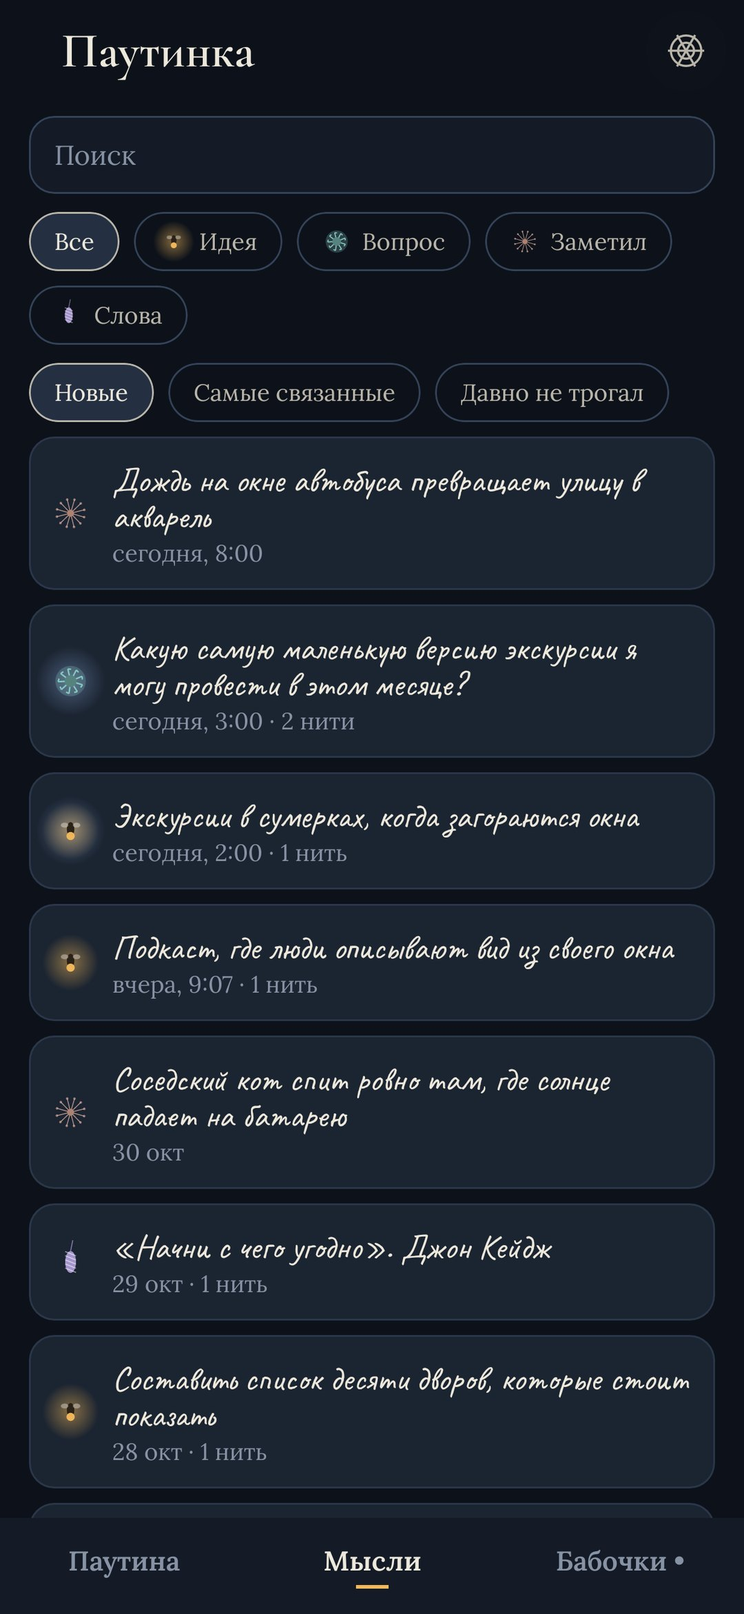
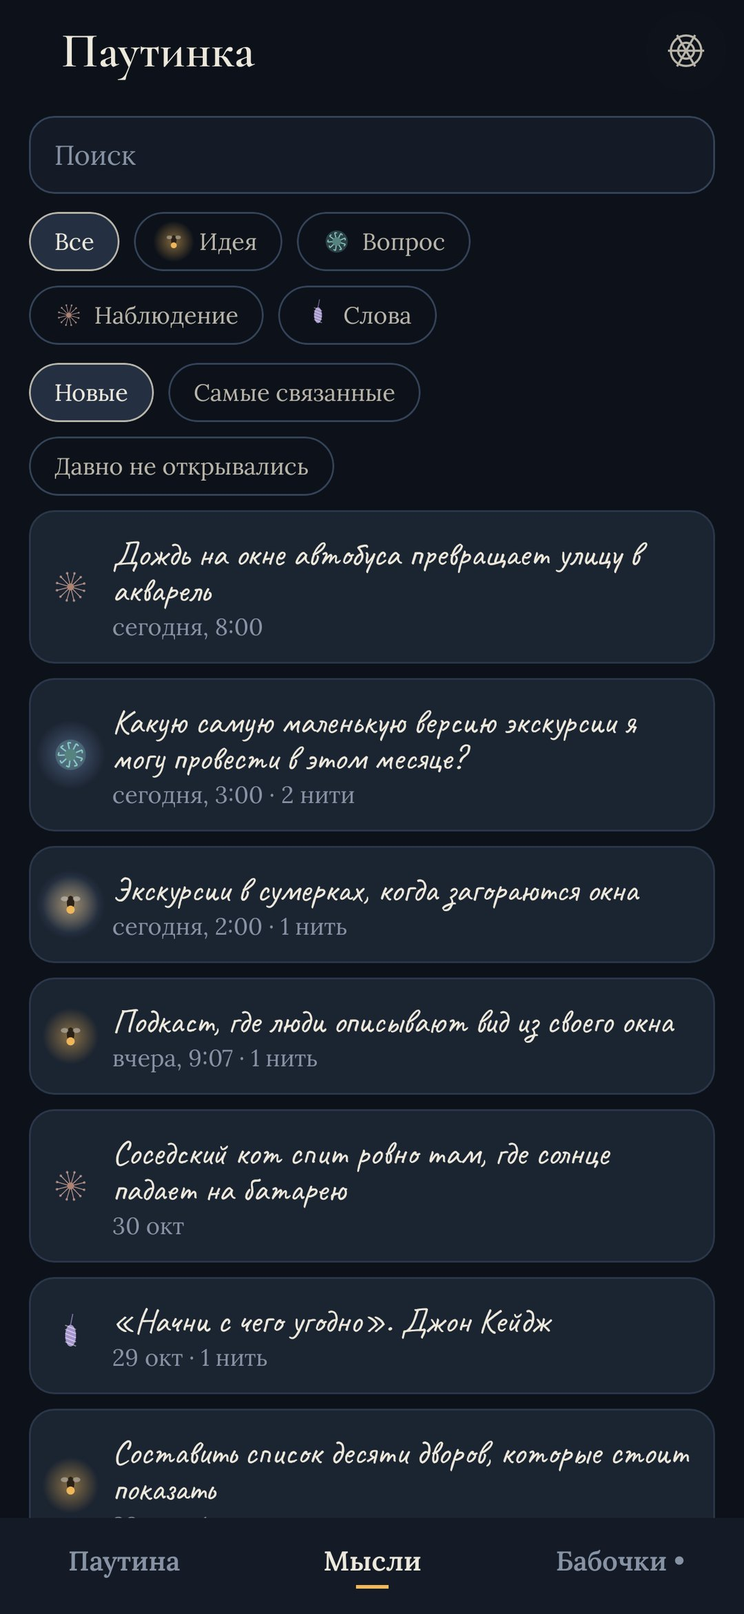
Release 1.0.0: voice in the sheet, plainer Russian, widget hint
Speech goes through SpeechRecognizer right in the catch sheet, so it works
on phones whose «speak now» intent is taken by an app that just closes.
Gender-neutral, natural Russian strings; a hint where the widget lands.

diff --git a/app/src/main/java/app/gossamer/ui/catching/CatchForm.kt b/app/src/main/java/app/gossamer/ui/catching/CatchForm.kt
@@ -1,9 +1,8 @@
 package app.gossamer.ui.catching
 
-import android.app.Activity
-import android.content.Context
-import android.content.Intent
-import android.speech.RecognizerIntent
+import android.Manifest
+import android.content.pm.PackageManager
+import androidx.core.content.ContextCompat
 import androidx.activity.compose.rememberLauncherForActivityResult
 import androidx.activity.result.contract.ActivityResultContracts
 import androidx.compose.foundation.Canvas
@@ -52,15 +51,6 @@ import app.gossamer.ui.theme.C
 import app.gossamer.ui.theme.T
 import app.gossamer.ui.web.Mic
 
-object Speech {
-    fun available(ctx: Context) = Intent(RecognizerIntent.ACTION_RECOGNIZE_SPEECH).resolveActivity(ctx.packageManager) != null
-
-    fun intent(ctx: Context) = Intent(RecognizerIntent.ACTION_RECOGNIZE_SPEECH)
-        .putExtra(RecognizerIntent.EXTRA_LANGUAGE_MODEL, RecognizerIntent.LANGUAGE_MODEL_FREE_FORM)
-        .putExtra(RecognizerIntent.EXTRA_LANGUAGE, if (ctx.ru) "ru-RU" else ctx.resources.configuration.locales[0].toLanguageTag())
-        .putExtra(RecognizerIntent.EXTRA_PROMPT, ctx.getString(R.string.c_say_prompt))
-}
-
 fun kindName(k: Kind) = when (k) {
     Kind.IDEA -> R.string.k_idea
     Kind.QUESTION -> R.string.k_question
@@ -94,28 +84,34 @@ fun CatchForm(initial: String = "", initialKind: Kind = Kind.IDEA, voice: Boolea
     var kind by rememberSaveable { mutableStateOf(initialKind) }
     var busy by remember { mutableStateOf(false) }
     val focus = remember { FocusRequester() }
-    val canSpeak = remember { Speech.available(ctx) }
-    val speech = rememberLauncherForActivityResult(ActivityResultContracts.StartActivityForResult()) { r ->
-        val said = r.data?.getStringArrayListExtra(RecognizerIntent.EXTRA_RESULTS)?.firstOrNull()
-        if (r.resultCode == Activity.RESULT_OK && !said.isNullOrBlank()) {
-            text = if (text.isBlank()) said.replaceFirstChar { it.uppercase() } else text.trimEnd() + " " + said
-        }
-        runCatching { focus.requestFocus() }
+    var voiceNote by remember { mutableStateOf<Int?>(null) }
+    val speech = rememberVoice(
+        onText = { said -> text = if (text.isBlank()) said.replaceFirstChar { it.uppercase() } else text.trimEnd() + " " + said; voiceNote = null },
+        onFail = { voiceNote = it },
+    )
+    val mic = rememberLauncherForActivityResult(ActivityResultContracts.RequestPermission()) { ok -> if (ok) speech.start() else voiceNote = R.string.v_perm }
+    fun listen() {
+        voiceNote = null
+        if (ContextCompat.checkSelfPermission(ctx, Manifest.permission.RECORD_AUDIO) == PackageManager.PERMISSION_GRANTED) speech.start()
+        else mic.launch(Manifest.permission.RECORD_AUDIO)
     }
     LaunchedEffect(Unit) {
-        if (voice && canSpeak) speech.launch(Speech.intent(ctx)) else runCatching { focus.requestFocus() }
+        if (voice && speech.available) listen() else runCatching { focus.requestFocus() }
     }
 
     Column(verticalArrangement = Arrangement.spacedBy(12.dp)) {
         Text(stringResource(R.string.c_title), style = T.Title)
         Row(verticalAlignment = Alignment.Top, horizontalArrangement = Arrangement.spacedBy(10.dp)) {
-            Field(text, { text = it }, stringResource(R.string.c_hint), Modifier.weight(1f).heightIn(min = 110.dp), style = T.Thought, single = false, focus = focus, minLines = 3)
-            if (canSpeak) {
+            val shown = if (speech.listening && speech.partial.isNotBlank()) (if (text.isBlank()) speech.partial else text.trimEnd() + " " + speech.partial) else text
+            Field(shown, { text = it }, stringResource(if (speech.listening) R.string.v_listening else R.string.c_hint), Modifier.weight(1f).heightIn(min = 110.dp), style = T.Thought, single = false, focus = focus, minLines = 3)
+            if (speech.available) {
                 val label = stringResource(R.string.sc_say)
-                Box(Modifier.size(48.dp).clip(CircleShape).background(C.deep).border(1.dp, C.line, CircleShape).clickable { speech.launch(Speech.intent(ctx)) }
-                    .semantics { contentDescription = label }, contentAlignment = Alignment.Center) { Mic(Modifier.size(20.dp), C.silk) }
+                Box(Modifier.size(48.dp).clip(CircleShape).background(if (speech.listening) C.amber else C.deep).border(1.dp, if (speech.listening) C.amber else C.line, CircleShape).clickable { listen() }
+                    .semantics { contentDescription = label }, contentAlignment = Alignment.Center) { Mic(Modifier.size(20.dp), if (speech.listening) C.ink else C.silk) }
             }
         }
+        voiceNote?.let { Text(stringResource(it), style = T.Small.copy(color = C.warn)) }
+        if (speech.listening) Text(stringResource(R.string.v_listening_b), style = T.Small.copy(color = C.amber))
         Flow {
             for (k in Kind.entries) Chip(stringResource(kindName(k)), kind == k, { kind = k }, lead = { KindGlyph(k, 18.dp) })
         }

diff --git a/app/src/main/java/app/gossamer/ui/catching/Voice.kt b/app/src/main/java/app/gossamer/ui/catching/Voice.kt
@@ -1,0 +1,94 @@
+package app.gossamer.ui.catching
+
+import android.content.Context
+import android.content.Intent
+import android.os.Bundle
+import android.speech.RecognitionListener
+import android.speech.RecognizerIntent
+import android.speech.SpeechRecognizer
+import androidx.compose.runtime.Composable
+import androidx.compose.runtime.DisposableEffect
+import androidx.compose.runtime.Stable
+import androidx.compose.runtime.getValue
+import androidx.compose.runtime.mutableStateOf
+import androidx.compose.runtime.remember
+import androidx.compose.runtime.setValue
+import androidx.compose.ui.platform.LocalContext
+import app.gossamer.R
+import app.gossamer.ru
+
+/**
+ * Speech to text inside the sheet, through whatever recognition service the phone has
+ * (Google's, or the one on a phone without Google apps). Words appear in the field as you speak.
+ * The system «speak now» window isn't used: on some phones it's registered by an app that just closes.
+ */
+@Stable
+class Voice(private val ctx: Context, private val onText: (String) -> Unit, private val onFail: (Int) -> Unit) {
+    var listening by mutableStateOf(false)
+        private set
+    var partial by mutableStateOf("")
+        private set
+    private var rec: SpeechRecognizer? = null
+
+    val available: Boolean = runCatching { SpeechRecognizer.isRecognitionAvailable(ctx) }.getOrDefault(false)
+
+    fun start() {
+        if (listening) { stop(); return }
+        val r = rec ?: runCatching { SpeechRecognizer.createSpeechRecognizer(ctx) }.getOrNull()?.also { rec = it } ?: return onFail(R.string.v_none)
+        r.setRecognitionListener(object : RecognitionListener {
+            override fun onReadyForSpeech(params: Bundle?) { listening = true }
+            override fun onBeginningOfSpeech() = Unit
+            override fun onRmsChanged(rmsdB: Float) = Unit
+            override fun onBufferReceived(buffer: ByteArray?) = Unit
+            override fun onEndOfSpeech() = Unit
+            override fun onEvent(eventType: Int, params: Bundle?) = Unit
+            override fun onPartialResults(b: Bundle?) {
+                partial = b?.getStringArrayList(SpeechRecognizer.RESULTS_RECOGNITION)?.firstOrNull().orEmpty()
+            }
+            override fun onResults(b: Bundle?) {
+                listening = false
+                val said = b?.getStringArrayList(SpeechRecognizer.RESULTS_RECOGNITION)?.firstOrNull().orEmpty().ifBlank { partial }
+                partial = ""
+                if (said.isNotBlank()) onText(said) else onFail(R.string.v_nothing)
+            }
+            override fun onError(error: Int) {
+                listening = false
+                val got = partial
+                partial = ""
+                if (got.isNotBlank()) { onText(got); return }
+                onFail(
+                    when (error) {
+                        SpeechRecognizer.ERROR_NO_MATCH, SpeechRecognizer.ERROR_SPEECH_TIMEOUT -> R.string.v_nothing
+                        SpeechRecognizer.ERROR_INSUFFICIENT_PERMISSIONS -> R.string.v_perm
+                        SpeechRecognizer.ERROR_LANGUAGE_NOT_SUPPORTED, SpeechRecognizer.ERROR_LANGUAGE_UNAVAILABLE -> R.string.v_lang
+                        else -> R.string.v_none
+                    },
+                )
+            }
+        })
+        val intent = Intent(RecognizerIntent.ACTION_RECOGNIZE_SPEECH)
+            .putExtra(RecognizerIntent.EXTRA_LANGUAGE_MODEL, RecognizerIntent.LANGUAGE_MODEL_FREE_FORM)
+            .putExtra(RecognizerIntent.EXTRA_LANGUAGE, if (ctx.ru) "ru-RU" else ctx.resources.configuration.locales[0].toLanguageTag())
+            .putExtra(RecognizerIntent.EXTRA_PARTIAL_RESULTS, true)
+            .putExtra(RecognizerIntent.EXTRA_CALLING_PACKAGE, ctx.packageName)
+        listening = true
+        runCatching { r.startListening(intent) }.onFailure { listening = false; onFail(R.string.v_none) }
+    }
+
+    fun stop() {
+        runCatching { rec?.stopListening() }
+    }
+
+    fun release() {
+        runCatching { rec?.destroy() }
+        rec = null
+    }
+}
+
+@Composable
+fun rememberVoice(onText: (String) -> Unit, onFail: (Int) -> Unit): Voice {
+    val ctx = LocalContext.current
+    val v = remember { Voice(ctx, onText, onFail) }
+    DisposableEffect(v) { onDispose { v.release() } }
+    return v
+}

diff --git a/app/src/main/java/app/gossamer/ui/list/ThoughtsScreen.kt b/app/src/main/java/app/gossamer/ui/list/ThoughtsScreen.kt
@@ -94,7 +94,7 @@ fun FluffPage(h: Home, nav: Nav) {
     val c = LocalContext.current.container
     var q by rememberSaveable { mutableStateOf("") }
     Page(stringResource(R.string.fluff), nav::close) {
-        Text(stringResource(R.string.fluff_b, h.s.windDays), style = T.Body.copy(color = C.silkD))
+        Text(stringResource(R.string.fluff_b), style = T.Body.copy(color = C.silkD))
         if (h.fluff.size > 6) Field(q, { q = it }, stringResource(R.string.search_hint), Modifier.fillMaxWidth())
         if (h.fluff.isEmpty()) Text(stringResource(R.string.fluff_empty), style = T.Italic)
         for (t in h.fluff.filter { q.isBlank() || it.text.contains(q.trim(), ignoreCase = true) }) Card(Modifier.fillMaxWidth(), pad = 12.dp) {

diff --git a/app/src/main/java/app/gossamer/ui/thought/ThoughtSheets.kt b/app/src/main/java/app/gossamer/ui/thought/ThoughtSheets.kt
@@ -118,7 +118,7 @@ fun ThoughtSheet(h: Home, t: Thought, nav: Nav) {
 
         val cluster = h.cluster(t.id)
         if (cluster.size >= Web.COCOON_MIN) Btn(stringResource(R.string.spin_from), { nav.spin(t.id) }, Modifier.fillMaxWidth())
-        else if (cluster.size >= 2) Text(stringResource(R.string.t_spin_need, Web.COCOON_MIN - cluster.size), style = T.Small)
+        else if (cluster.size >= 2) Text(pluralStringResource(R.plurals.t_spin_need, Web.COCOON_MIN - cluster.size, Web.COCOON_MIN - cluster.size), style = T.Small)
 
         Row(Modifier.fillMaxWidth(), horizontalArrangement = Arrangement.spacedBy(4.dp)) {
             if (!editing) Btn(stringResource(R.string.edit), { editing = true }, kind = BtnKind.QUIET)

diff --git a/app/src/main/java/app/gossamer/ui/settings/SettingsPage.kt b/app/src/main/java/app/gossamer/ui/settings/SettingsPage.kt
@@ -99,6 +99,7 @@ fun SettingsPage(s: Settings, nav: Nav) {
         val wm = ctx.getSystemService(AppWidgetManager::class.java)
         if (wm?.isRequestPinAppWidgetSupported == true) Btn(stringResource(R.string.add_widget), {
             wm.requestPinAppWidget(ComponentName(ctx, CatchWidget::class.java), null, null)
+            c.note(ctx.getString(R.string.widget_asked), ctx.getString(R.string.widget_asked_b))
         }, Modifier.fillMaxWidth(), kind = Kind.PLAIN)
         if (Build.VERSION.SDK_INT >= 33) Btn(stringResource(R.string.add_tile), {
             val sb = ctx.getSystemService(StatusBarManager::class.java)

diff --git a/tools/res.py b/tools/res.py
@@ -36,7 +36,7 @@ S = [
      "Зажми мысль и протяни нить к другой. Чем больше нитей, тем ближе она к центру: так проступают твои настоящие темы. Каждое утро на несколько старых мыслей выпадает роса. Непривязанные мысли через месяц уносит ветер."),
     ("ob3_t", "Let a butterfly out", "Выпусти бабочку"),
     ("ob3_b", "When five thoughts or more hang together, spin them into a cocoon. In three days it ripens: reread what’s inside, sum it up in one sentence, and a butterfly flies out. The collection of butterflies is the thoughts that grew into something.",
-     "Когда вместе держатся пять мыслей или больше, сверни их в кокон. Через три дня он созреет: перечитай, что внутри, скажи одной фразой, к чему всё это, и вылетит бабочка. Коллекция бабочек — это мысли, из которых что-то выросло."),
+     "Когда вместе держатся пять мыслей или больше, свей из них кокон. Через три дня он созреет: перечитай, что внутри, скажи одной фразой, к чему всё это, и вылетит бабочка. Коллекция бабочек — это мысли, из которых что-то выросло."),
     # web
     ("web_a11y", "The web: %1$d thoughts. Tap one to open it, press and drag to tie it to another.",
      "Паутина: мыслей %1$d. Нажми на мысль, чтобы открыть её. Зажми и веди к другой, чтобы связать."),
@@ -50,7 +50,12 @@ S = [
     # catch
     ("c_title", "What got caught?", "Что поймалось?"),
     ("c_hint", "A thought, a question, something you noticed…", "Мысль, вопрос, что-то замеченное…"),
-    ("c_say_prompt", "Say the thought", "Скажи мысль"),
+    ("v_listening", "Listening…", "Слушаю…"),
+    ("v_listening_b", "Speak. Tap the microphone again to stop.", "Говори. Чтобы закончить, нажми на микрофон ещё раз."),
+    ("v_nothing", "Didn’t catch any words. Try again a little closer.", "Не удалось разобрать ни слова. Попробуй ещё раз, поближе к телефону."),
+    ("v_perm", "Voice needs the microphone. You can allow it in the app’s settings.", "Для голоса нужен микрофон. Его можно разрешить в настройках приложения."),
+    ("v_lang", "The phone’s speech service has no pack for this language yet. Use the microphone on the keyboard.", "У голосовой службы телефона пока нет этого языка. Попробуй микрофон на клавиатуре."),
+    ("v_none", "Speech recognition isn’t working on this phone. Use the microphone on the keyboard.", "Распознавание речи на этом телефоне не работает. Попробуй микрофон на клавиатуре."),
     ("catch_share", "Catch in Gossamer", "Поймать в Паутинку"),
     ("sc_catch", "Catch a thought", "Поймать мысль"),
     ("sc_say", "Say it", "Сказать голосом"),
@@ -59,7 +64,7 @@ S = [
     ("widget_desc", "Write or say a thought in two seconds", "Записать или наговорить мысль за две секунды"),
     ("k_idea", "Idea", "Идея"),
     ("k_question", "Question", "Вопрос"),
-    ("k_notice", "Noticed", "Заметил"),
+    ("k_notice", "Noticed", "Наблюдение"),
     ("k_words", "Words", "Слова"),
     ("k_idea_b", "A firefly: something to make, try or do.", "Светлячок: что-то сделать, попробовать, придумать."),
     ("k_question_b", "A burr with a hook: it clings until you answer it. A question can be hung as a lure.", "Репей с крючком: цепляется, пока не ответишь. Вопрос можно повесить приманкой."),
@@ -67,10 +72,10 @@ S = [
     ("k_words_b", "A wisp of someone else’s silk: a quote, a line, a phrase overheard.", "Чужая шёлковая ниточка: цитата, строчка, подслушанная фраза."),
     ("n_caught", "Stuck to the web", "Прилипло к паутине"),
     ("n_caught_night", "Caught in the night. It will glow.", "Поймано ночью. Будет светиться."),
-    ("n_echo", "Caught before", "Уже ловил"),
+    ("n_echo", "Caught before", "Такое уже было"),
     ("n_echo_b", "Almost the same as «%1$s». They hang side by side now, on a thicker thread.", "Почти то же, что «%1$s». Теперь они висят рядом, на толстой нити."),
     ("n_tied", "Thread pulled tight", "Нить натянута"),
-    ("n_tied_b", "Both thoughts are safe from the wind now.", "Теперь ветер не тронет обе мысли."),
+    ("n_tied_b", "Both thoughts are safe from the wind now.", "Теперь ветер не унесёт ни ту, ни другую."),
     ("n_tied_already", "They are tied already", "Они уже связаны"),
     ("n_dew", "The dew sparkled", "Роса блеснула"),
     ("n_wind_b", "They are in the Fluff, on the Thoughts tab. Nothing is lost.", "Они в Пухе, на вкладке «Мысли». Ничего не потерялось."),
@@ -82,7 +87,6 @@ S = [
     ("t_in_fluff", "The wind took this thought to the Fluff.", "Ветер унёс эту мысль в Пух."),
     ("t_is_lure", "Hung as a lure: in the evening, today’s catch is offered to it.", "Висит приманкой: вечером к ней примеряется сегодняшний улов."),
     ("t_no_threads", "No threads yet", "Нитей пока нет"),
-    ("t_spin_need", "%1$d more thoughts in this cluster and it can be spun into a cocoon.", "Ещё мыслей: %1$d, и эту гроздь можно свернуть в кокон."),
     ("tie", "Tie to another thought", "Привязать к другой мысли"),
     ("tie_title", "Tie to…", "Привязать к…"),
     ("tie_none", "Nothing to tie to yet.", "Пока не к чему привязать."),
@@ -108,12 +112,12 @@ S = [
     ("search_hint", "Search", "Поиск"),
     ("o_new", "Newest", "Новые"),
     ("o_tied", "Most tied", "Самые связанные"),
-    ("o_old", "Long untouched", "Давно не трогал"),
+    ("o_old", "Long untouched", "Давно не открывались"),
     ("list_empty", "Nothing caught yet.", "Пока ничего не поймано."),
     ("list_none", "Nothing like that on the web.", "На паутине такого нет."),
     ("fluff", "The Fluff", "Пух"),
-    ("fluff_b", "What the wind took: thoughts that hung untied and untouched for %1$d days. They’re not lost. Put one back if it still matters.",
-     "Что унёс ветер: мысли, которые %1$d дн. висели без нитей и без внимания. Они не потерялись. Верни, если ещё важно."),
+    ("fluff_b", "What the wind took: thoughts that hung untied and unopened for longer than the wind setting allows. They’re not lost. Put one back if it still matters.",
+     "Сюда ветер уносит мысли, которые слишком долго провисели без нитей и без внимания. Они не потерялись: если мысль ещё важна, верни её на паутину."),
     ("fluff_empty", "The wind hasn’t taken anything yet.", "Ветер пока ничего не унёс."),
     ("fluff_empty_short", "Empty for now", "Пока пусто"),
     ("fluff_when", "caught %1$s, gone %2$s", "поймано: %1$s, унесено: %2$s"),
@@ -124,7 +128,7 @@ S = [
     ("ripe_now", "Ripe: open it", "Созрел: можно вскрывать"),
     ("butterflies", "Butterflies", "Бабочки"),
     ("butterflies_empty", "No butterflies yet. Tie %1$d thoughts or more into one cluster, spin them into a cocoon, and three days later the first one flies out.",
-     "Бабочек пока нет. Свяжи в одну гроздь не меньше %1$d мыслей, сверни её в кокон, и через три дня вылетит первая."),
+     "Бабочек пока нет. Свяжи в одну гроздь хотя бы %1$d мыслей, свей из неё кокон, и через три дня вылетит первая."),
     ("cocoon_wait", "Thoughts ripen in the dark. When it’s ripe, you’ll reread them all at once and see what they add up to.", "Мысли зреют в темноте. Когда кокон созреет, ты перечитаешь их разом и увидишь, что из них складывается."),
     ("hatch_b", "Read them all, slowly. What do they add up to? A decision, a plan, a first line, a «no»: one sentence.", "Прочитай всё, не спеша. К чему это всё? Решение, план, первая строчка, «нет» — одной фразой."),
     ("hatch_hint", "In one sentence…", "Одной фразой…"),
@@ -153,6 +157,9 @@ S = [
     ("set_quick_b", "Long-press the app icon for «Catch» and «Say it». Select text in any app or tap «Share» to catch it. And:",
      "Долгое нажатие на иконку: «Поймать» и «Сказать голосом». Выдели текст в любом приложении или нажми «Поделиться», чтобы поймать его. А ещё:"),
     ("add_widget", "Put the widget on the home screen", "Добавить виджет на главный экран"),
+    ("widget_asked", "The widget is on its way", "Виджет отправлен на рабочий стол"),
+    ("widget_asked_b", "Some phones put it on the last home screen without asking. If it isn’t there, long-press the home screen, open Widgets and find Gossamer.",
+     "Некоторые телефоны добавляют его без вопросов на последний экран. Если виджета нет, долго нажми на рабочий стол, открой «Виджеты» и найди «Паутинку»."),
     ("add_tile", "Add a tile to quick settings", "Добавить плитку в шторку"),
     ("set_sound", "The faint ting", "Тихий звон"),
     ("set_lang", "Language", "Язык"),
@@ -186,6 +193,8 @@ S = [
 ]
 
 P = [
+    ("t_spin_need", ("%1$d more thought in this cluster and it can be spun into a cocoon.", "%1$d more thoughts in this cluster and it can be spun into a cocoon."),
+     ("Ещё %1$d мысль в этой грозди — и из неё можно будет свить кокон.", "Ещё %1$d мысли в этой грозди — и из неё можно будет свить кокон.", "Ещё %1$d мыслей в этой грозди — и из неё можно будет свить кокон.")),
     ("on_web", ("%1$d thought on the web", "%1$d thoughts on the web"), ("%1$d мысль на паутине", "%1$d мысли на паутине", "%1$d мыслей на паутине")),
     ("threads", ("%1$d thread", "%1$d threads"), ("%1$d нить", "%1$d нити", "%1$d нитей")),
     ("echoes", ("came back %1$d time", "came back %1$d times"), ("возвращалась %1$d раз", "возвращалась %1$d раза", "возвращалась %1$d раз")),

diff --git a/README.ru.md b/README.ru.md
@@ -17,13 +17,15 @@
 
 <img src="docs/screenshots/ru/1-web.jpg" width="200" /> <img src="docs/screenshots/ru/3-thought.jpg" width="200" /> <img src="docs/screenshots/ru/5-butterflies.jpg" width="200" /> <img src="docs/screenshots/ru/6-butterfly.jpg" width="200" />
 
+**[Скачать APK](https://github.com/bigdevwhale/gossamer/releases/latest/download/Gossamer.apk)** · Android 9+
+
 </div>
 
 ---
 
 ## Ловля
 
-- **Две секунды, откуда угодно.** Виджет на главном экране (написать или сказать), плитка в шторке, два ярлыка по долгому нажатию на иконку, «Поделиться» из любого приложения и выделенный текст («Поймать в Паутинку» в меню текста). Голос распознаёт сам телефон.
+- **Две секунды, откуда угодно.** Виджет на главном экране (написать или сказать), плитка в шторке, два ярлыка по долгому нажатию на иконку, «Поделиться» из любого приложения и выделенный текст («Поймать в Паутинку» в меню текста). Голос распознаёт голосовая служба телефона, прямо в окне записи.
 - **Одно поле, четыре вида.** Светлячок — идея, репей — вопрос, пух одуванчика — что-то замеченное, чужая шёлковая ниточка — слова. Без заголовков, тегов и папок.
 - **Ночной улов.** Мысли, пойманные после полуночи, светятся, а утром паутина показывает, что принесла ночь.
 - **«Уже ловил».** Запишешь почти то же самое ещё раз — паук привяжет новую мысль к старой толстой нитью. Мысли, которые возвращаются, и есть важные.
@@ -50,7 +52,7 @@
 
 ## Приватность
 
-Нет разрешения `INTERNET`, аккаунтов и аналитики. Всё хранится в базе на телефоне. В настройках можно сохранить всю паутину текстом (Markdown) или резервной копией (JSON) и восстановить её на другом телефоне.
+Нет разрешения `INTERNET`, аккаунтов и аналитики. Микрофон приложение просит, только когда ты впервые на него нажмёшь. Всё хранится в базе на телефоне. В настройках можно сохранить всю паутину текстом (Markdown) или резервной копией (JSON) и восстановить её на другом телефоне.
 
 ## Сборка
 

diff --git a/README.md b/README.md
@@ -17,13 +17,15 @@
 
 <img src="docs/screenshots/en/1-web.jpg" width="200" /> <img src="docs/screenshots/en/3-thought.jpg" width="200" /> <img src="docs/screenshots/en/5-butterflies.jpg" width="200" /> <img src="docs/screenshots/en/6-butterfly.jpg" width="200" />
 
+**[Download the APK](https://github.com/bigdevwhale/gossamer/releases/latest/download/Gossamer.apk)** · Android 9+
+
 </div>
 
 ---
 
 ## Catching
 
-- **Two seconds, from anywhere.** The home-screen widget (write or say it), a quick-settings tile, two long-press shortcuts on the icon, «Share» from any app, and selected text («Catch in Gossamer» in the text menu). Voice goes through the phone's own speech input.
+- **Two seconds, from anywhere.** The home-screen widget (write or say it), a quick-settings tile, two long-press shortcuts on the icon, «Share» from any app, and selected text («Catch in Gossamer» in the text menu). Voice is recognised right in the sheet by the phone's speech service.
 - **One field, four kinds.** A firefly for an idea, a burr for a question, dandelion down for something noticed, a wisp of someone else's silk for words. No titles, no tags, no folders.
 - **The night catch.** Thoughts caught after midnight glow, and in the morning the web shows what the night brought.
 - **«Caught before».** Write almost the same thing again, and the spider ties it to the old one with a thicker thread. The thoughts that keep coming back are the ones that matter.
@@ -50,7 +52,7 @@ The window changes with the hour (dawn, day, dusk, a moonlit night) and the seas
 
 ## Privacy
 
-No `INTERNET` permission, no accounts, no analytics. Everything lives in a database on the phone. Settings save the whole web as Markdown to read anywhere, or as a JSON backup to restore on another phone.
+No `INTERNET` permission, no accounts, no analytics. The microphone is asked for only when you first tap it. Everything lives in a database on the phone. Settings save the whole web as Markdown to read anywhere, or as a JSON backup to restore on another phone.
 
 ## Build
 

diff --git a/CHANGELOG.md b/CHANGELOG.md
@@ -6,10 +6,10 @@ line "<!-- tg", then 2-4 short lines in Russian for users (what is new, what is 
 then close it like any HTML comment. The release notes carry it, and the chat bot posts those lines.
 -->
 
-## [Unreleased]
+## [1.0.0] - 2026-11-01
 
 ### Added
-- Catching thoughts in two seconds: widget (write or say), quick-settings tile, icon shortcuts, «Share» and selected text from any app, voice through the phone's speech input.
+- Catching thoughts in two seconds: widget (write or say), quick-settings tile, icon shortcuts, «Share» and selected text from any app, voice right in the sheet through the phone's speech service.
 - Four kinds of thought (idea, question, noticed, words), each drawn as its own thing caught in the web.
 - The web drawn in code: threads pulled by dragging, hubs pulled in to the middle with their words, the spider running to what was just caught.
 - «Caught before»: repeats are tied to the old thought with a thicker thread.
@@ -17,3 +17,9 @@ then close it like any HTML comment. The release notes carry it, and the chat bo
 - Cocoons of five to nine thoughts that ripen for three days and hatch into butterflies with one sentence.
 - Indian summer: the year's twelve thoughts in September.
 - Window light by the hour and the season; Markdown export, JSON backup and restore; English and Russian.
+
+<!-- tg
+Новое приложение: ловец мыслей. Записать мысль можно за две секунды — с виджета, из шторки, голосом или через «Поделиться»
+Мысли связываются нитями, и самые важные темы сами собираются в центре паутины
+Забытые мысли уносит ветер (их можно вернуть), а из связанной грозди через три дня вылетает бабочка
+-->
